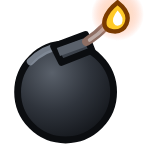
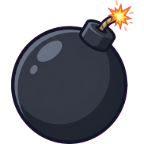
물건에 얼굴을 그리지 않게 — 아이템 아홉 개를 다시 그립니다
폭탄과 모루와 망치와 가짜 회복약에 만화 같은 눈이 붙어 있었습니다.
모델은 사람 아닌 것에도 표정을 넣으려 듭니다. 금지 항목에 한 줄을
더 두었습니다 — 생물이 아니면 눈도 눈동자도 입도 없다.

회피 신발은 보라색 벽돌처럼 읽혀서 날개 달린 장화 한 짝으로 다시
그렸습니다.

diff --git a/gen-sprite.js b/gen-sprite.js
@@ -55,6 +55,10 @@ const BG = [
 ].join(' ');
 
 const FORBID = [
+  // 아이템에서 자꾸 무생물에 눈을 그려 옵니다 — 폭탄 · 모루 · 망치 · 약병에
+  // 만화 눈이 달려 나왔습니다. 적과 주인공만 눈을 가집니다.
+  'If the subject is an object rather than a creature, it must NOT have a face:',
+  'no eyes, no eyeballs, no pupils, no mouth, no expression — it is an inanimate object.',
   'No text, no letters, no numbers, no logo, no watermark, no signature,',
   'no border, no frame, no panel, no grid, no sprite sheet, no multiple views,',
   'no turnaround, no character sheet — exactly one single subject in the image.',
@@ -254,8 +258,9 @@ const SUBJECTS = [
     what: 'The same shield shape, tarnished grey, with a ragged hole punched clean through its '
         + 'middle and cracks radiating from the hole. The hole is empty, showing through.' },
   { name: 'item-dodge', group: 'item', w: 36, h: 36,
-    what: 'A light swift boot with two motion afterimages trailing behind it, the trailing ones '
-        + 'fading to outlines. Purple #CE93D8.' },
+    what: 'ONE single light leather boot with a small wing on its heel, seen from the side, '
+        + 'tilted as if in mid-stride, with two faint speed streaks trailing behind it. '
+        + 'Purple leather #CE93D8. Just one boot — not a pair, not a stack, not a wall.' },
   { name: 'item-fake-dodge', group: 'item', w: 36, h: 36,
     what: 'The same boot, but ruined: the sole is torn open and flapping, the laces are snapped, '
         + 'and the trailing afterimages have gone grey and smoky.' },
@@ -330,38 +335,15 @@ const SUBJECTS = [
         + 'vertical crack, empty glowing eye slits. A bright pale outline keeps it visible against '
         + 'a dark background. Body #4527A0, mask pale #E1BEE7.' },
 
-  // ── 발판 셋과 벽 (ART.md 8절) ───────────────────────────
-  // 여기만 규칙이 다릅니다. 취향이 아니라 동작의 제약이라 못 굽힙니다.
+  // ── 발판 셋과 벽 — **AI 로 안 뽑습니다. SVG 로 둡니다** ──────
+  // 시도했고 실패했습니다.
+  //   벽   "돌벽만 그려라"고 했는데 모델이 그 위에 드워프 전사를 그려 넣었고,
+  //        거울 타일링 때문에 위쪽에 거꾸로 선 드워프까지 생겼습니다.
+  //        세로로 끊김 없이 이어져야 한다는 조건을 모델이 지킬 수 없습니다.
+  //   발판  460×20 은 23:1 입니다. 모델은 그런 띠를 안 그리고, 늘려 채우면
+  //        밋밋한 막대가 됩니다.
   //
-  // 발판은 460×20 이면 23:1 입니다. 이미지 모델은 그런 띠를 안 그려 주므로
-  // fit:'stretch' 로 가로로 늘려 채웁니다 — 결이 길이 방향으로 고른 돌·나무라
-  // 늘려도 표가 안 납니다. 대신 양 끝 마감은 포기합니다.
-  //
-  // 벽은 세로로 이음매 없이 이어져야 합니다. AI 는 그 조건을 못 지키므로
-  // tile:'mirror' 로 위 절반을 아래에 거울로 붙입니다. 그러면 타일의 맨 윗줄과
-  // 맨 아랫줄이 같은 줄이 되어 **반드시** 이어집니다 (가운데에 대칭선이
-  // 생기는 것은 감수합니다 — 돌벽이라 눈에 잘 안 띕니다).
-  { name: 'plat', group: 'scene', w: 140, h: 20, fit: 'stretch', bg: 'none',
-    what: 'A long narrow horizontal stone platform beam seen straight from the side, like a thin '
-        + 'ledge. Its TOP surface is the brightest part — a light lavender-blue lit edge — the body '
-        + 'below is mid indigo-blue and the underside is dark. Blue-violet #5C6BC0, lit top #9FA8DA. '
-        + 'The beam runs the full width of the image and is very flat and wide.' },
-  { name: 'plat-shop', group: 'scene', w: 460, h: 20, fit: 'stretch', bg: 'none',
-    what: 'A long narrow horizontal wooden shop counter beam seen straight from the side, warm '
-        + 'amber planks with brass studs, its TOP surface the brightest part — a pale cream lit '
-        + 'edge. Amber #FFB74D, lit top #FFE0B2. Very flat, very wide, spanning the whole image.' },
-  { name: 'plat-boss', group: 'scene', w: 460, h: 20, fit: 'stretch', bg: 'none',
-    what: 'A long narrow horizontal stone arena beam seen straight from the side, dark purple '
-        + 'stone with jagged cracks running through it, its TOP surface the brightest part — a pale '
-        + 'orchid lit edge. Purple #6A1B9A, lit top #CE93D8. Very flat, very wide.' },
-  { name: 'wall', group: 'scene', w: 500, h: 960, fit: 'stretch', tile: 'mirror', bg: 'opaque',
-    scale: 2,
-    what: 'The inside wall of a cold dark stone tower, seen flat straight on: courses of large '
-        + 'weathered dark blue-grey blocks with deep mortar lines, a tall vertical pilaster rib at '
-        + 'the far left edge and another at the far right edge. Very dark and low contrast, deep '
-        + 'navy #1D2542, nothing brighter than a dim grey — this is a background that must never '
-        + 'compete with the characters standing in front of it. No windows, no doors, no torches, '
-        + 'no props, no creatures, no floor, no ceiling — only wall.' },
+  // 이 넷은 art/*.svg 가 맡습니다. 게임도 그쪽을 읽으므로 손해가 없습니다.
 ];
 
 const GROUPS = ['player', 'enemy', 'bat', 'boss', 'bossshot', 'item', 'fx', 'weapon', 'scene'];
